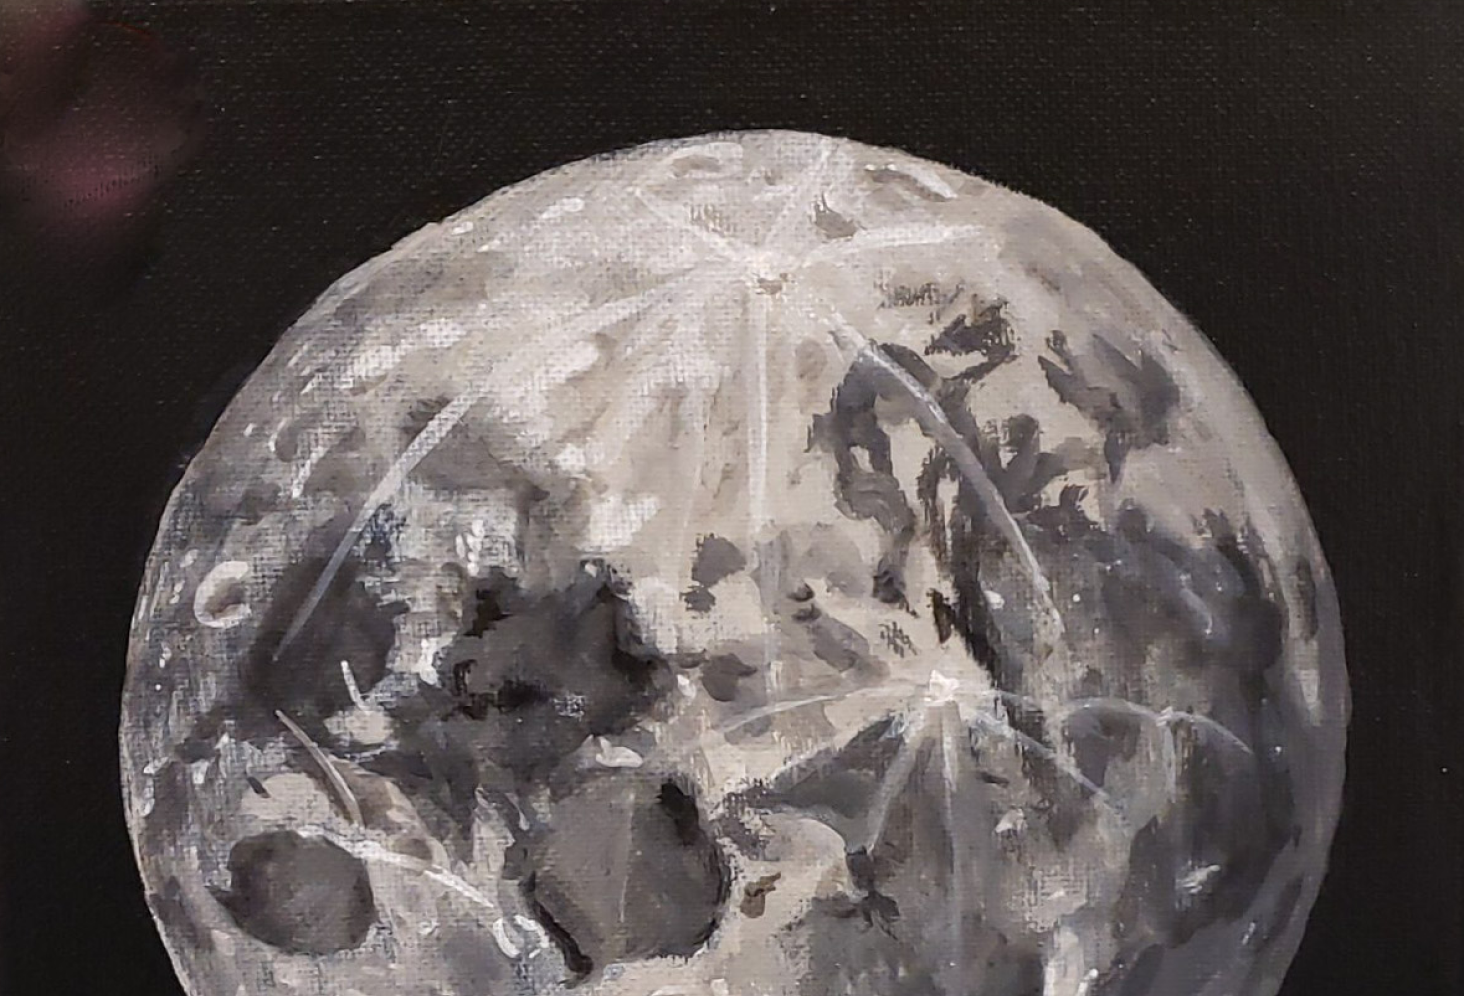
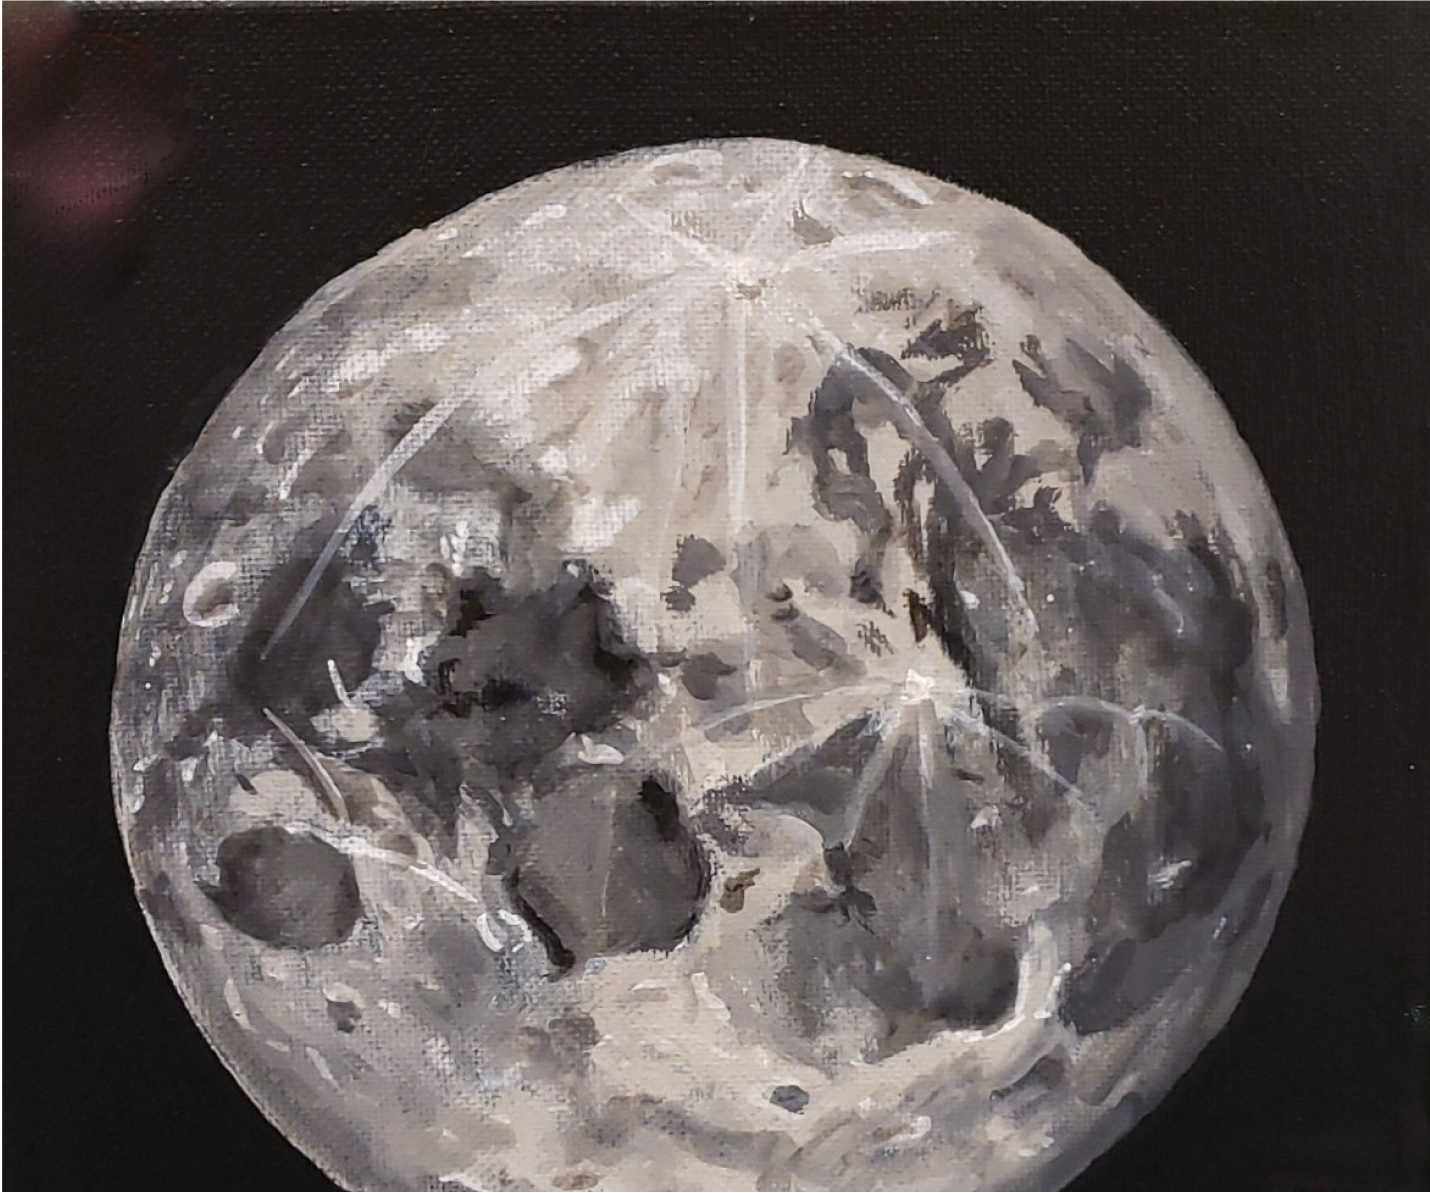
pieces now responsive for extra large screen sizes

diff --git a/src/components/MediumPieceItem/index.js b/src/components/MediumPieceItem/index.js
@@ -36,24 +36,40 @@ export default function MediumPieceItem({ item }) {
             : item.name === 'girl_dog_medium' || item.name === 'tattoo_medium'
             ? `${50 - (item.width / 2 + 33.7)}vw`
             : `-${(width - (item.width / 100) * width) / 2}px`
-          : item.name === 'girl_dog_large' ||
+          : width > 1200 && width < 1536
+          ? item.name === 'girl_dog_large' ||
             item.name === 'shepherd_medium' ||
             item.name === 'cow_medium' ||
-            item.name === 'moon_medium' ||
+            item.name === 'moon_large' ||
             item.name === 'cat_large'
-          ? `${(width - (item.width / 100) * width) / 2}px`
-          : item.name === 'smoking_medium' ||
-            item.name === 'tattoo_medium' ||
-            item.name === 'puppy_medium'
-          ? `${50 - (item.width / 2 + 23.83)}vw`
-          : item.name === 'horse_medium'
-          ? `-${50 - (item.width / 2 + 26.43)}vw`
-          : `-${(width - (item.width / 100) * width) / 2}px`,
+            ? `${(width - (item.width / 100) * width) / 2}px`
+            : item.name === 'smoking_medium' ||
+              item.name === 'tattoo_medium' ||
+              item.name === 'puppy_medium'
+            ? `${50 - (item.width / 2 + 23.83)}vw`
+            : item.name === 'horse_medium'
+            ? `-${50 - (item.width / 2 + 26.43)}vw`
+            : `-${(width - (item.width / 100) * width) / 2}px`
+          : width > 1536
+          ? item.name === 'girl_dog_large' ||
+            item.name === 'shepherd_medium' ||
+            item.name === 'cow_medium' ||
+            item.name === 'moon_large' ||
+            item.name === 'cat_large'
+            ? `${(width - (item.width / 100) * width) / 2 - width * 0.1}px`
+            : item.name === 'smoking_medium' ||
+              item.name === 'tattoo_medium' ||
+              item.name === 'puppy_medium'
+            ? `${50 - (item.width / 2 + 23.83) - 5}vw`
+            : item.name === 'horse_medium'
+            ? `-${50 - (item.width / 2 + 26.43) - 5}vw`
+            : `-${(width - (item.width / 100) * width) / 2 - width * 0.1}px`
+          : '0px',
     },
   };
   const variantsTwo = {
     active: {
-      scale: 230,
+      scale: 325,
       opacity: 0.6,
       zIndex: 4,
       transition: { duration: 0.65 },

diff --git a/src/pages/PiecesMed.jsx b/src/pages/PiecesMed.jsx
@@ -9,7 +9,7 @@ import useWindowSize from '../customHooks/useWindowSize';
 export default function Pieces({ scrollToPieces, setScrollToPieces }) {
   const { width } = useWindowSize();
   // List of art to be displayed
-  const sizeControl = 1;
+  const sizeControl = width > 1536 ? 0.8 : 1;
   const artList =
     width < 1200
       ? [
@@ -127,7 +127,7 @@ export default function Pieces({ scrollToPieces, setScrollToPieces }) {
                   width: sizeControl * 23.83,
                 },
                 {
-                  name: 'moon_medium',
+                  name: 'moon_large',
                   description: 'A full moon at night.',
                   height: sizeControl * 16.21,
                   width: sizeControl * 23.83,
@@ -212,6 +212,8 @@ export default function Pieces({ scrollToPieces, setScrollToPieces }) {
         flexWrap: 'wrap',
         position: 'relative',
         zIndex: '2',
+        px: { xl: '10vw' },
+        backgroundColor: { xl: 'rain.main' },
       }}
     >
       {width < 1200 ? (
